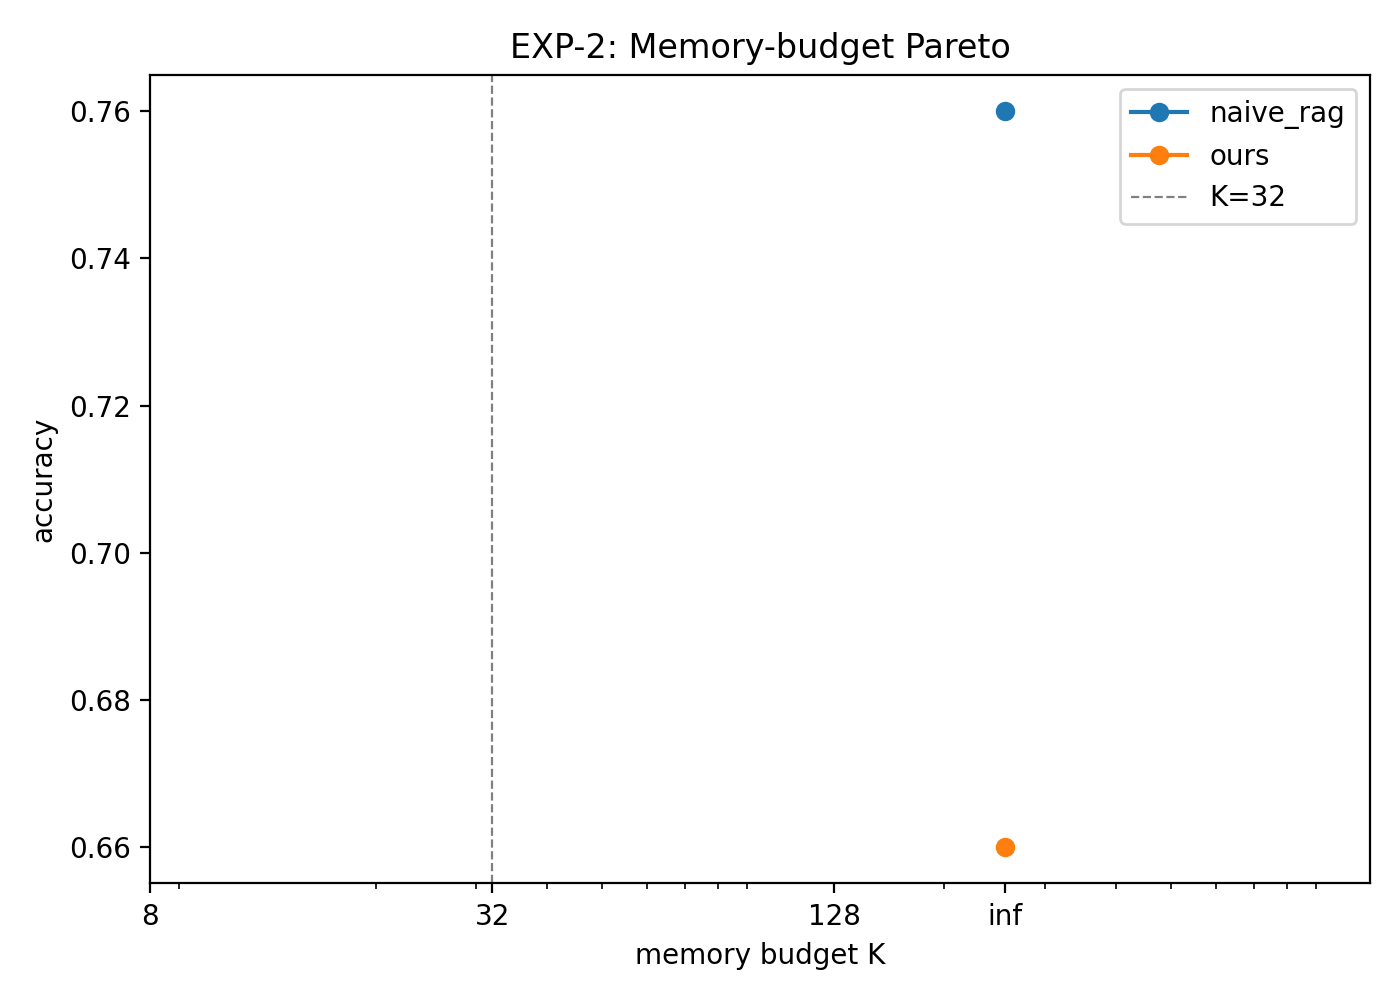
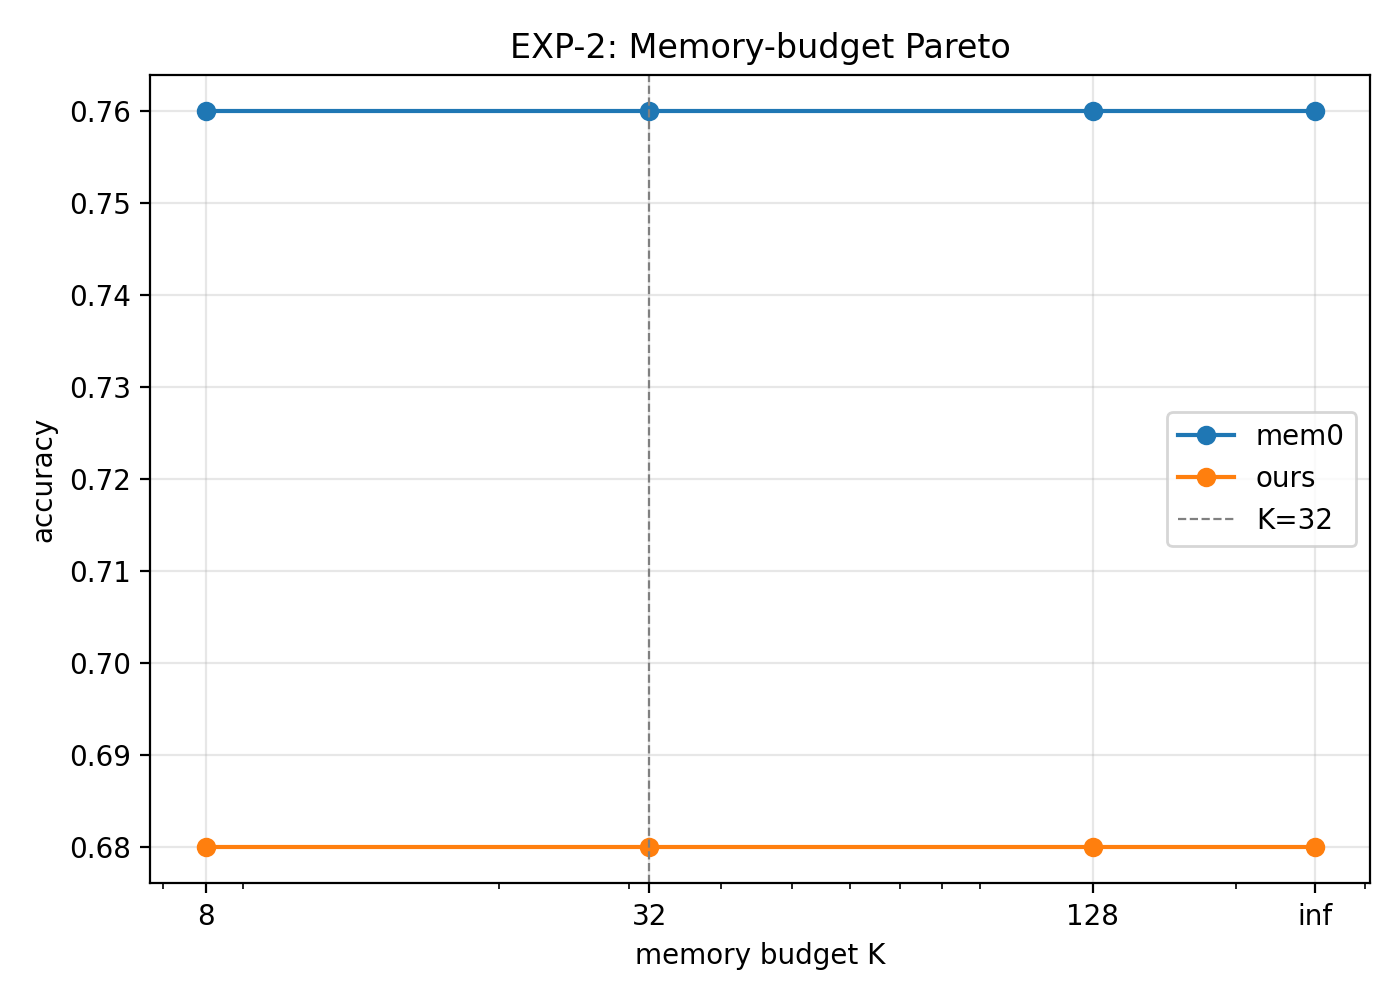
fix(fig2): pandas was coercing K=inf to float infinity
The CSV mixes ints (8,32,128) and 'inf'. pandas inferred the column as
float64 ('inf' -> +Inf), then .astype(str) produced '8.0'/'32.0'/etc.
which my map dict didn't match -> three of four points per system
became NaN and matplotlib dropped them (only the K=inf marker showed).

Read K as str explicitly and parse with a small helper. The dashed
K=32 line and the proper 4-tick log axis now render correctly.

diff --git a/scripts/make_figures.py b/scripts/make_figures.py
@@ -81,24 +81,37 @@ def fig2_pareto():
     p = _have("exp2_budget_sweep.csv")
     if not p:
         return
-    df = pd.read_csv(p)
-    order = {"8": 8, "32": 32, "128": 128, "inf": 256}
+    # K column mixes ints and "inf"; force string read so pandas doesn't
+    # silently coerce "inf" to float infinity (which turns "8" into "8.0"
+    # and breaks any string mapping).
+    df = pd.read_csv(p, dtype={"K": str})
+
+    def _kx(v):
+        s = str(v).strip().lower().replace(".0", "")
+        if s in ("inf", "infinity"):
+            return 256                      # plot anchor for "unbounded"
+        try:
+            return int(float(s))
+        except ValueError:
+            return None
+
     fig, ax = plt.subplots(figsize=(7, 5))
     for s in df["system"].unique():
         sub = df[df.system == s].copy()
-        sub["kx"] = sub["K"].astype(str).map(order)
-        sub = sub.sort_values("kx")
+        sub["kx"] = sub["K"].apply(_kx)
+        sub = sub.dropna(subset=["kx"]).sort_values("kx")
         ax.plot(sub["kx"], sub["accuracy"], marker="o", label=s)
     ax.set_xscale("log")
-    ax.set_xticks(list(order.values()))
-    ax.set_xticklabels(list(order))
+    ax.set_xticks([8, 32, 128, 256])
+    ax.set_xticklabels(["8", "32", "128", "inf"])
     ax.axvline(32, color="grey", ls="--", lw=0.8, label="K=32")
     ax.set_xlabel("memory budget K")
     ax.set_ylabel("accuracy")
     ax.set_title("EXP-2: Memory-budget Pareto")
+    ax.grid(alpha=0.3)
     ax.legend()
     fig.tight_layout()
-    fig.savefig(dpi=200, fname=FIG /"exp2_pareto.png")
+    fig.savefig(dpi=200, fname=FIG / "exp2_pareto.png")
     print("wrote figures/exp2_pareto.png")
 
 